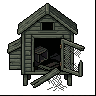
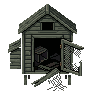
The webs go ON something, the coop comes off its card, and eight LimeZu cuts leave
Four of the ledger's fifteen decisions, none of which needed a generation.

**The webs (16 rows, the biggest group).** `art/sprites.json` had already
worked out the answer and nobody had built it: the five webs are
corner-anchored, they are not overhead art, and hung in the air they read as
floating rags. `npm run webbed` composites one over an existing sprite
offline, and `prop.oilDrumWebbed` and `base.cratePalletWebbed` are what came
out. Nothing is resampled -- the webs are 64x64 and a drum is 32x45, and
scaling one down to fit is the move this repo does not make, for the same
reason a carried weapon is never enlarged past its source. A rectangle is cut
at 1:1 and laid in a corner, which is the truer picture anyway: what belongs
on a crate is the CORNER of a web, not a whole web shrunk to crate size.

The dense pale webs were tried first and composite as a white patch pasted
on -- they are drawn as subjects in their own right. The dark ones at 0.85
alpha read as strands over a thing. Both variants are underground only, via
`breakables.sprites` on theVault and theLift, which is what that override is
for: a web on a barn drum in an open field is a lie about how long the field
has been standing. The webbed drum is a SKIN, never a class -- hp, radius and
drop table are what a class is.

**`ranch.coopBroken` is kept, and the tool was the problem.** The ledger
recommended dropping it: good art that "came back inside a drawn frame
[…]

diff --git a/tools/webbed.ts b/tools/webbed.ts
@@ -1,0 +1,87 @@
+/**
+ * Composite a cave web over an existing sprite, offline and free.
+ *
+ *     npm run webbed -- <web.png> <base.png> <out.png> <x> <y> <w> <h> [flip]
+ *
+ * ## Why this rather than generating webbed variants
+ *
+ * Five webs were generated, packed as `cave.web0..5`, and drawn by nothing for
+ * two sessions -- sixteen rows of the ledger's open queue, the largest single
+ * group in it. `art/sprites.json` had already worked out why: they are
+ * CORNER-ANCHORED and they are not overhead art. Hung in the air they read as
+ * floating rags. A web belongs ON something, in the angle between two surfaces,
+ * and the breakable-variant system already expresses exactly that -- a class
+ * holds a list of skins and a map may replace it.
+ *
+ * What was missing was the webbed variants themselves, and generating them
+ * would have been paying twice for art the account already holds. This makes
+ * them out of the two halves that exist. Deterministic, offline, no key, no
+ * credits.
+ *
+ * ## The one rule it obeys
+ *
+ * NOTHING IS RESAMPLED. The webs are 64x64 and the things they go on are 32x45
+ * and 48x48; the obvious move is to scale the web down to fit, and it is the
+ * move this repo does not make -- a non-integer resample of pixel art lies
+ * about the grid it was drawn on, which is the same argument that stops
+ * carried weapons being enlarged past their source. So a RECTANGLE of the web
+ * is cut at 1:1 and placed in a corner of the base, which is also the truer
+ * picture: what you want on a crate is the corner of a web, not a whole web
+ * shrunk to crate size.
+ *
+ * `flip` mirrors the cut horizontally, so one corner-anchored web makes both a
+ * left-hand and a right-hand variant. `a=<0..1>` scales the web's alpha: the
+ * generated webs are drawn as a subject on their own and are dense enough at
+ * full strength to read as a white patch pasted over a 32px drum. A web on
+ * something is mostly the thing, with strands across it.
+ *
+ * Straight source-over alpha, and the base's own alpha is preserved where the
+ * web is transparent -- so a web that overhangs the silhouette stays inside the
+ * canvas and does not grow the sprite's box, which would move its pivot.
+ */
+import { readFileSync, writeFileSync } from 'node:fs'
+import { basename } from 'node:path'
+import { decodePng, encodePng } from './png.ts'
+
+const a = process.argv.slice(2).filter((v) => v !== '--')
+if (a.length < 7) {
+  console.error('usage: npm run webbed -- <web.png> <base.png> <out.png> <x> <y> <w> <h> [flip]')
+  process.exit(1)
+}
+const [webPath, basePath, outPath] = a
+const dx = Number(a[3]); const dy = Number(a[4])
+const cw = Number(a[5]); const ch = Number(a[6])
+const flip = a.includes('flip')
+const alphaScale = Number(a.find((v) => v.startsWith('a='))?.slice(2) ?? 1)
+
+const web = decodePng(readFileSync(webPath!))
+const img = decodePng(readFileSync(basePath!))
+
+let laid = 0
+for (let y = 0; y < ch; y++) {
+  for (let x = 0; x < cw; x++) {
+    const sx = flip ? cw - 1 - x : x
+    if (sx < 0 || sx >= web.width || y >= web.height) continue
+    const s = (y * web.width + sx) * 4
+    const alpha = (web.data[s + 3]! / 255) * alphaScale
+    if (alpha <= 0.02) continue
+    const tx = dx + x; const ty = dy + y
+    if (tx < 0 || ty < 0 || tx >= img.width || ty >= img.height) continue
+    const d = (ty * img.width + tx) * 4
+    const da = img.data[d + 3]! / 255
+    const outA = alpha + da * (1 - alpha)
+    for (let c = 0; c < 3; c++) {
+      img.data[d + c] = Math.round(
+        (web.data[s + c]! * alpha + img.data[d + c]! * da * (1 - alpha)) / (outA || 1),
+      )
+    }
+    img.data[d + 3] = Math.round(outA * 255)
+    laid++
+  }
+}
+
+writeFileSync(outPath!, encodePng(img))
+console.log(
+  `  ${basename(outPath!)}: ${basename(webPath!)} ${cw}x${ch}${flip ? ' flipped' : ''}`
+  + ` onto ${basename(basePath!)} at ${dx},${dy} at alpha ${alphaScale} -- ${laid}px laid`,
+)

diff --git a/tools/decard.ts b/tools/decard.ts
@@ -19,11 +19,21 @@
  * the scale table published it as 210x126 when the truth is 210x49 -- 2.6x too
  * tall. The card is a scale bug wearing a cosmetic bug's clothes.
  *
- * Method: 4-connected flood from every border pixel, matching the corner colour
+ * Method: 4-connected flood from every border pixel, matching any CARD COLOUR
  * within a tolerance, opaque pixels only. Only background-connected regions go;
  * a pixel of the same grey inside a drum is never reached. Enclosed pockets of
  * card colour that the flood cannot reach are counted and REPORTED rather than
  * removed, because a pocket is as likely to be a highlight as it is a gap.
+ *
+ * A card colour is one the BORDER RING is substantially made of -- at least
+ * `MIN_BORDER_SHARE` of it -- and there may be more than one. That is the fix
+ * for the shape the ledger called "a drawn frame `decard` cannot take": a few
+ * assets came back as a white card with a black rule drawn down two sides, and
+ * matching only the corner's colour cut the white, left the rule, and therefore
+ * left the content box exactly the size of the canvas. `ranch.coopBroken` --
+ * good art, 50% card, unusable for two sessions -- is the one that made this
+ * worth writing. The share floor is what keeps it safe: art that happens to
+ * touch an edge is not a quarter of the ring.
  *
  * Verifies after writing rather than assuming the write worked, same contract
  * as `rmbg`.
@@ -36,6 +46,8 @@ import { decodePng, encodePng } from './png.ts'
 const TOLERANCE = 12
 /** Below this share of the canvas, a border-connected region is art, not a card. */
 const MIN_CARD_SHARE = 0.15
+/** Below this share of the BORDER RING, a colour is art touching an edge. */
+const MIN_BORDER_SHARE = 0.25
 
 const args = process.argv.slice(2).filter((a) => a !== '--')
 const checkOnly = args.includes('--check')
@@ -52,14 +64,38 @@ for (const path of files) {
   const { width: W, height: H, data } = img
   const at = (x: number, y: number) => (y * W + x) * 4
 
-  const seed = [data[0], data[1], data[2], data[3]] as const
-  if (seed[3] <= 8) { console.log(`  ${name}: already cut out (transparent corner)`); continue }
+  if (data[3]! <= 8) { console.log(`  ${name}: already cut out (transparent corner)`); continue }
 
-  const isCard = (i: number) =>
-    data[i + 3] > 8 &&
-    Math.abs(data[i] - seed[0]) <= TOLERANCE &&
-    Math.abs(data[i + 1] - seed[1]) <= TOLERANCE &&
-    Math.abs(data[i + 2] - seed[2]) <= TOLERANCE
+  /*
+     Every colour the border ring is substantially made of, clustered within
+     TOLERANCE. Usually one; two when the generator drew a rule down the side
+     of the card, which is the case this loop exists for.
+  */
+  const ring: number[] = []
+  for (let x = 0; x < W; x++) ring.push(at(x, 0), at(x, H - 1))
+  for (let y = 0; y < H; y++) ring.push(at(0, y), at(W - 1, y))
+  const seeds: { r: number; g: number; b: number; n: number }[] = []
+  for (const i of ring) {
+    if (data[i + 3]! <= 8) continue
+    const hit = seeds.find((c) =>
+      Math.abs(c.r - data[i]!) <= TOLERANCE
+      && Math.abs(c.g - data[i + 1]!) <= TOLERANCE
+      && Math.abs(c.b - data[i + 2]!) <= TOLERANCE)
+    if (hit) hit.n++
+    else seeds.push({ r: data[i]!, g: data[i + 1]!, b: data[i + 2]!, n: 1 })
+  }
+  const cards = seeds.filter((c) => c.n / ring.length >= MIN_BORDER_SHARE)
+  if (!cards.length) { console.log(`  ${name}: no card (no colour holds a quarter of the border)`); continue }
+
+  const isCard = (i: number) => {
+    if (data[i + 3]! <= 8) return false
+    for (const c of cards) {
+      if (Math.abs(data[i]! - c.r) <= TOLERANCE
+        && Math.abs(data[i + 1]! - c.g) <= TOLERANCE
+        && Math.abs(data[i + 2]! - c.b) <= TOLERANCE) return true
+    }
+    return false
+  }
 
   // Flood 4-connected from every border pixel.
   const card = new Uint8Array(W * H)

diff --git a/tools/build-atlas.ts b/tools/build-atlas.ts
@@ -125,6 +125,7 @@ interface Manifest {
   }
   /** Cave art: overhead stalactites and the corner webs. See art/sprites.json. */
   cave?: { _base: string; files: Record<string, string>; noTrim?: boolean }
+  webbed?: { _base: string; files: Record<string, string>; noTrim?: boolean }
   /** The generated ranch: buildings, vehicles, fencing, feed. See art/sprites.json. */
   ranch?: { _base: string; files: Record<string, string>; noTrim?: boolean }
   /** Complete enclosures, one sprite per pen. See art/sprites.json. */
@@ -706,6 +707,10 @@ const singleGroups = [
   // read as the thing above the player, and shrinking it to 32 would make a
   // stalactite the size of a chicken.
   manifest.cave ? { ...manifest.cave, cardArt: true } : undefined,
+  // Composited breakable skins (`npm run webbed`). NOT `cardArt`: they are the
+  // same objects as their unwebbed originals, at the same size, and they want
+  // the same 32x32 field assertion those originals pass.
+  manifest.webbed,
   // `cardArt` and `noTrim`: these are scene-scale buildings, up to 400px, and
   // the scene places them by the top-left of their FULL box. Trimming would
   // move that anchor to the first opaque pixel and every placement coordinate
